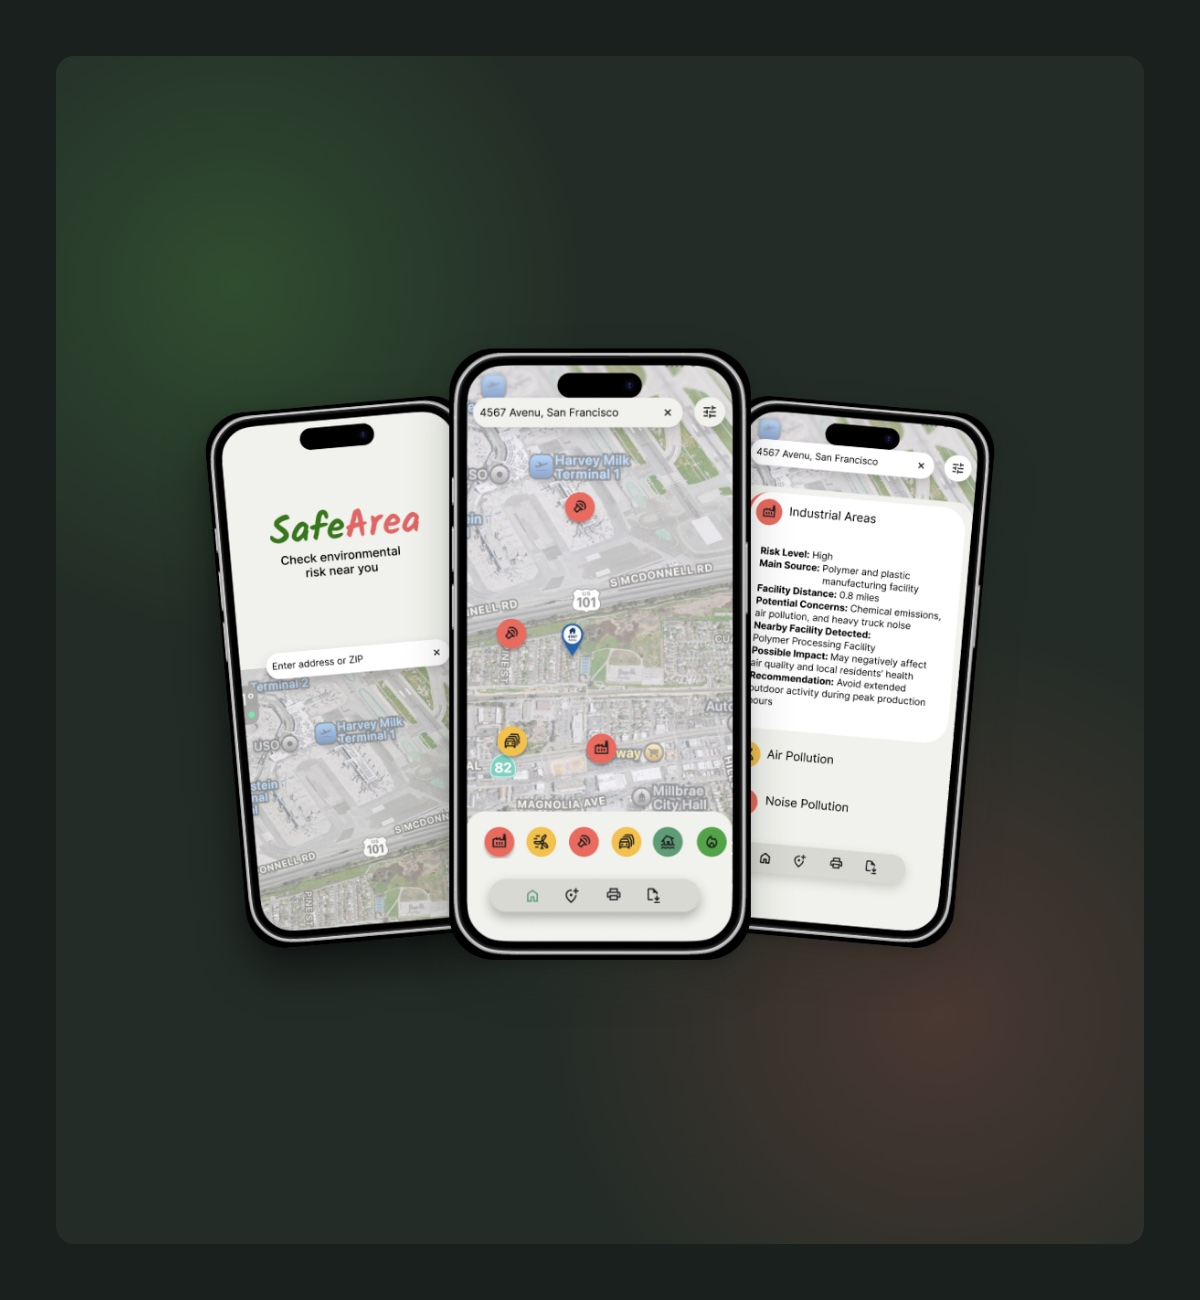
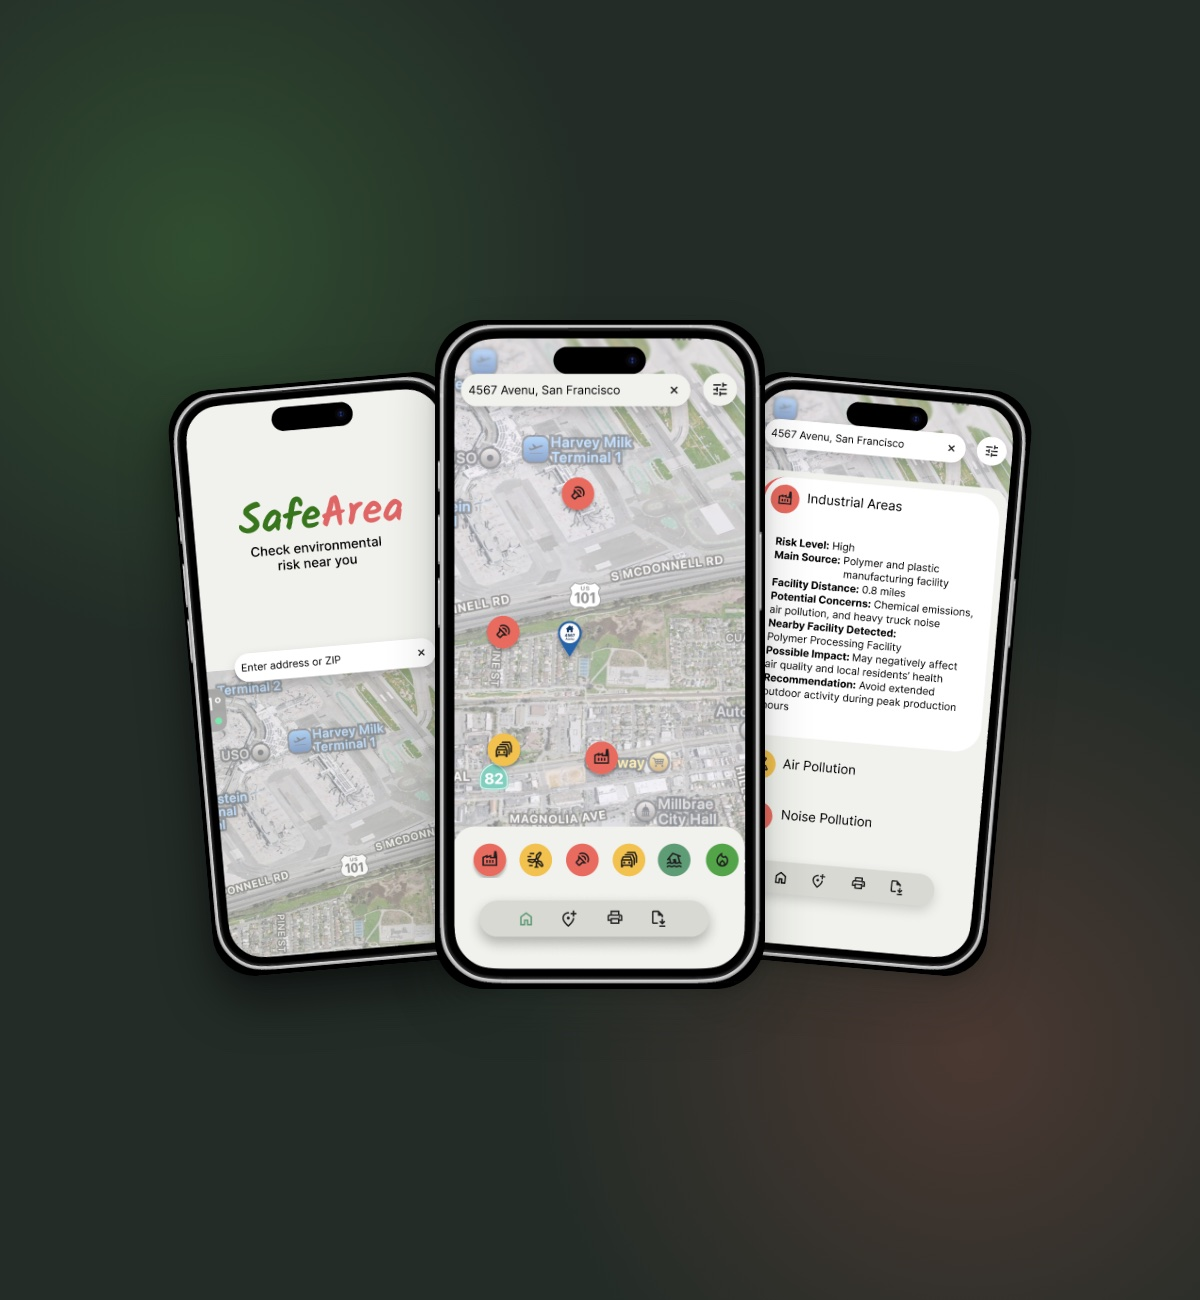
Rounded corners visible on Maker Space and SafeArea; frameless SafeArea and dark collage images

diff --git a/index.html b/index.html
@@ -13,7 +13,7 @@
 <link rel="preconnect" href="https://fonts.googleapis.com">
 <link rel="preconnect" href="https://fonts.gstatic.com" crossorigin>
 <link rel="stylesheet" href="https://fonts.googleapis.com/css2?family=Geist:wght@400;500;600;700&family=Geist+Mono:wght@400;500;600&display=swap">
-<link rel="stylesheet" href="css/style.css?v=20261113f">
+<link rel="stylesheet" href="css/style.css?v=20261113g">
 </head>
 <body>
 <a class="skip" href="#work">Skip to work</a>
@@ -95,7 +95,7 @@
           <h2>SafeArea App<span class="sr"> (opens in a new tab)</span></h2>
           <p>Research, personas and a tested Figma prototype for checking environmental risk at any address. <span class="go" aria-hidden="true">→</span></p>
         </div>
-        <img class="only-light" src="assets/img/safearea-phones-light.jpg" alt=""><img class="only-dark" src="assets/img/safearea-phones.jpg?v=3" alt="">
+        <img class="only-light" src="assets/img/safearea-phones-light.jpg?v=3" alt=""><img class="only-dark" src="assets/img/safearea-phones.jpg?v=4" alt="">
       </a>
 
       <a class="t pic proj p-gd" data-cat="ps ai" href="work/illustration.html" target="_blank" rel="noopener">
@@ -104,7 +104,7 @@
           <h2>Graphic design<span class="sr"> (opens in a new tab)</span></h2>
           <p>Posters, a magazine cover, an ad and a logo in Photoshop; stickers, book covers and a skateboard deck in Illustrator, from pencil sketch to final. <span class="go" aria-hidden="true">→</span></p>
         </div>
-        <img class="only-light" src="assets/img/graphic-collage-light.jpg?v=2" alt=""><img class="only-dark" src="assets/img/graphic-collage.jpg?v=2" alt="">
+        <img class="only-light" src="assets/img/graphic-collage-light.jpg?v=2" alt=""><img class="only-dark" src="assets/img/graphic-collage.jpg?v=3" alt="">
       </a>
     </div>
 

diff --git a/work/carmat.html b/work/carmat.html
@@ -13,7 +13,7 @@
 <link rel="preconnect" href="https://fonts.googleapis.com">
 <link rel="preconnect" href="https://fonts.gstatic.com" crossorigin>
 <link rel="stylesheet" href="https://fonts.googleapis.com/css2?family=Geist:wght@400;500;600;700&family=Geist+Mono:wght@400;500;600&display=swap">
-<link rel="stylesheet" href="../css/style.css?v=20261113f">
+<link rel="stylesheet" href="../css/style.css?v=20261113g">
 </head>
 <body>
 <a class="skip" href="#main">Skip to content</a>

diff --git a/work/cooking-community.html b/work/cooking-community.html
@@ -13,7 +13,7 @@
 <link rel="preconnect" href="https://fonts.googleapis.com">
 <link rel="preconnect" href="https://fonts.gstatic.com" crossorigin>
 <link rel="stylesheet" href="https://fonts.googleapis.com/css2?family=Geist:wght@400;500;600;700&family=Geist+Mono:wght@400;500;600&display=swap">
-<link rel="stylesheet" href="../css/style.css?v=20261113f">
+<link rel="stylesheet" href="../css/style.css?v=20261113g">
 </head>
 <body>
 <a class="skip" href="#main">Skip to content</a>

diff --git a/work/illustration.html b/work/illustration.html
@@ -13,7 +13,7 @@
 <link rel="preconnect" href="https://fonts.googleapis.com">
 <link rel="preconnect" href="https://fonts.gstatic.com" crossorigin>
 <link rel="stylesheet" href="https://fonts.googleapis.com/css2?family=Geist:wght@400;500;600;700&family=Geist+Mono:wght@400;500;600&display=swap">
-<link rel="stylesheet" href="../css/style.css?v=20261113f">
+<link rel="stylesheet" href="../css/style.css?v=20261113g">
 </head>
 <body>
 <a class="skip" href="#main">Skip to content</a>

diff --git a/work/maker-space.html b/work/maker-space.html
@@ -13,7 +13,7 @@
 <link rel="preconnect" href="https://fonts.googleapis.com">
 <link rel="preconnect" href="https://fonts.gstatic.com" crossorigin>
 <link rel="stylesheet" href="https://fonts.googleapis.com/css2?family=Geist:wght@400;500;600;700&family=Geist+Mono:wght@400;500;600&display=swap">
-<link rel="stylesheet" href="../css/style.css?v=20261113f">
+<link rel="stylesheet" href="../css/style.css?v=20261113g">
 </head>
 <body>
 <a class="skip" href="#main">Skip to content</a>

diff --git a/work/safearea.html b/work/safearea.html
@@ -13,7 +13,7 @@
 <link rel="preconnect" href="https://fonts.googleapis.com">
 <link rel="preconnect" href="https://fonts.gstatic.com" crossorigin>
 <link rel="stylesheet" href="https://fonts.googleapis.com/css2?family=Geist:wght@400;500;600;700&family=Geist+Mono:wght@400;500;600&display=swap">
-<link rel="stylesheet" href="../css/style.css?v=20261113f">
+<link rel="stylesheet" href="../css/style.css?v=20261113g">
 </head>
 <body>
 <a class="skip" href="#main">Skip to content</a>

diff --git a/css/style.css b/css/style.css
@@ -333,3 +333,5 @@ pre.code code{background:none;border:0;padding:0;font-size:14px;overflow-wrap:no
 
 /* Big project images: only a slight corner rounding */
 .proj-grid .t.proj img,.proj-grid .t.proj.p-ms img,.proj-grid .t.proj.p-gd img{border-radius:6px}
+/* Maker Space image at its own size so its rounded corners show */
+@media (min-width:901px){.proj-grid .t.proj.p-ms img{flex:none;height:auto;object-fit:fill;margin-top:auto}}
